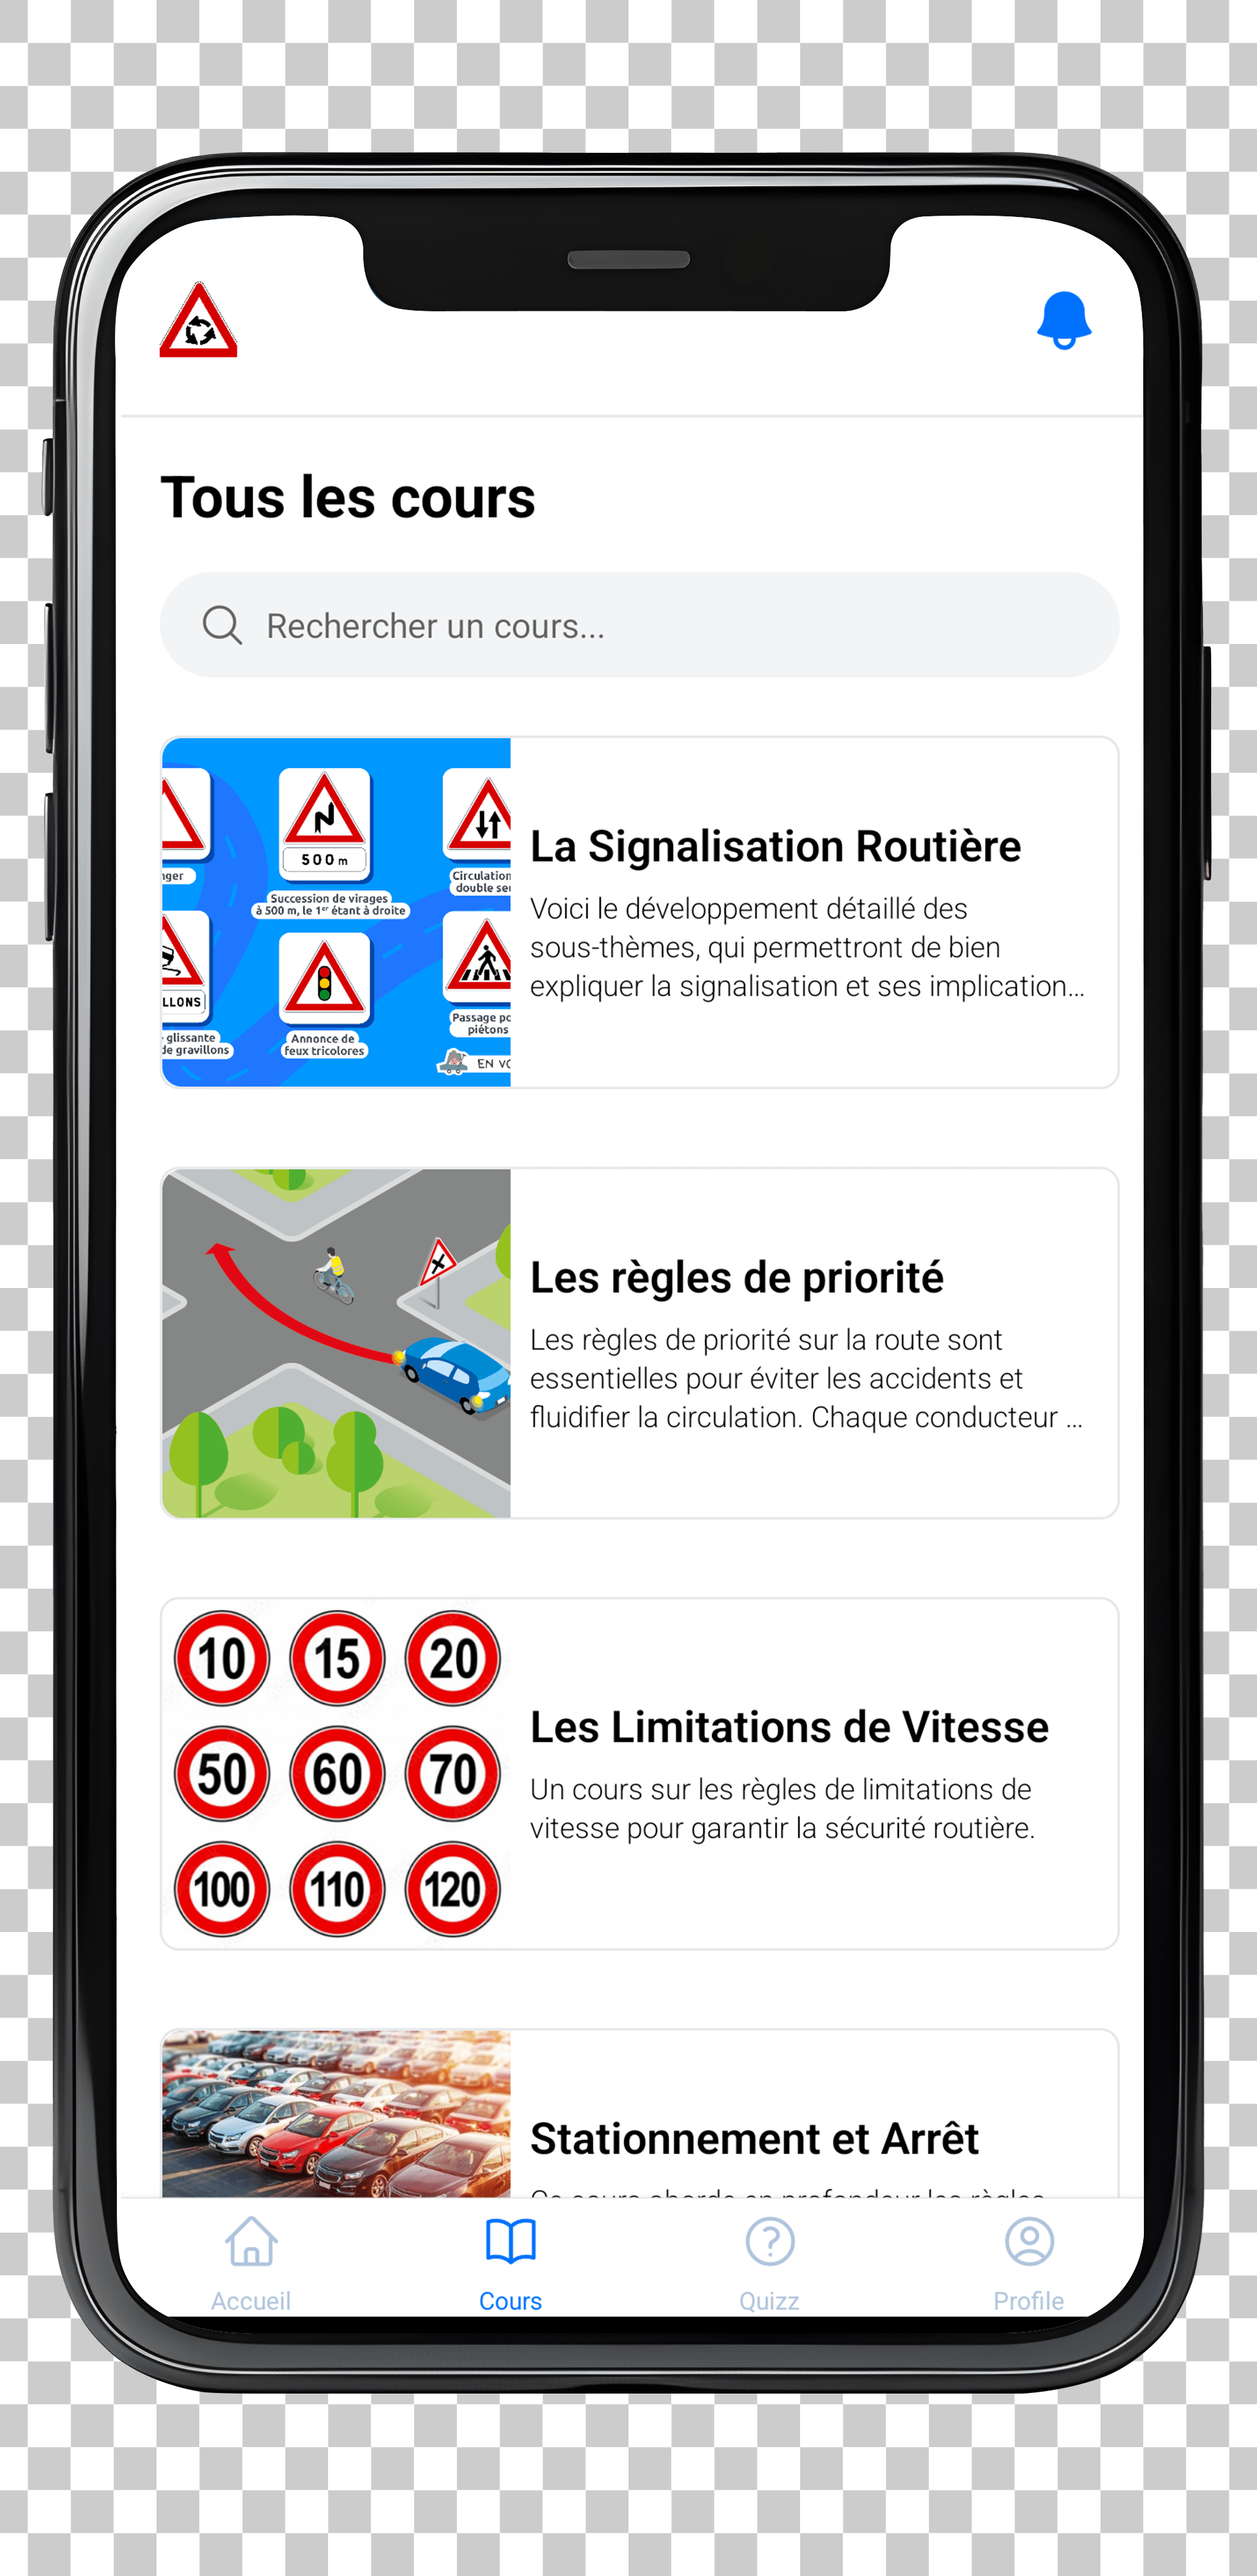
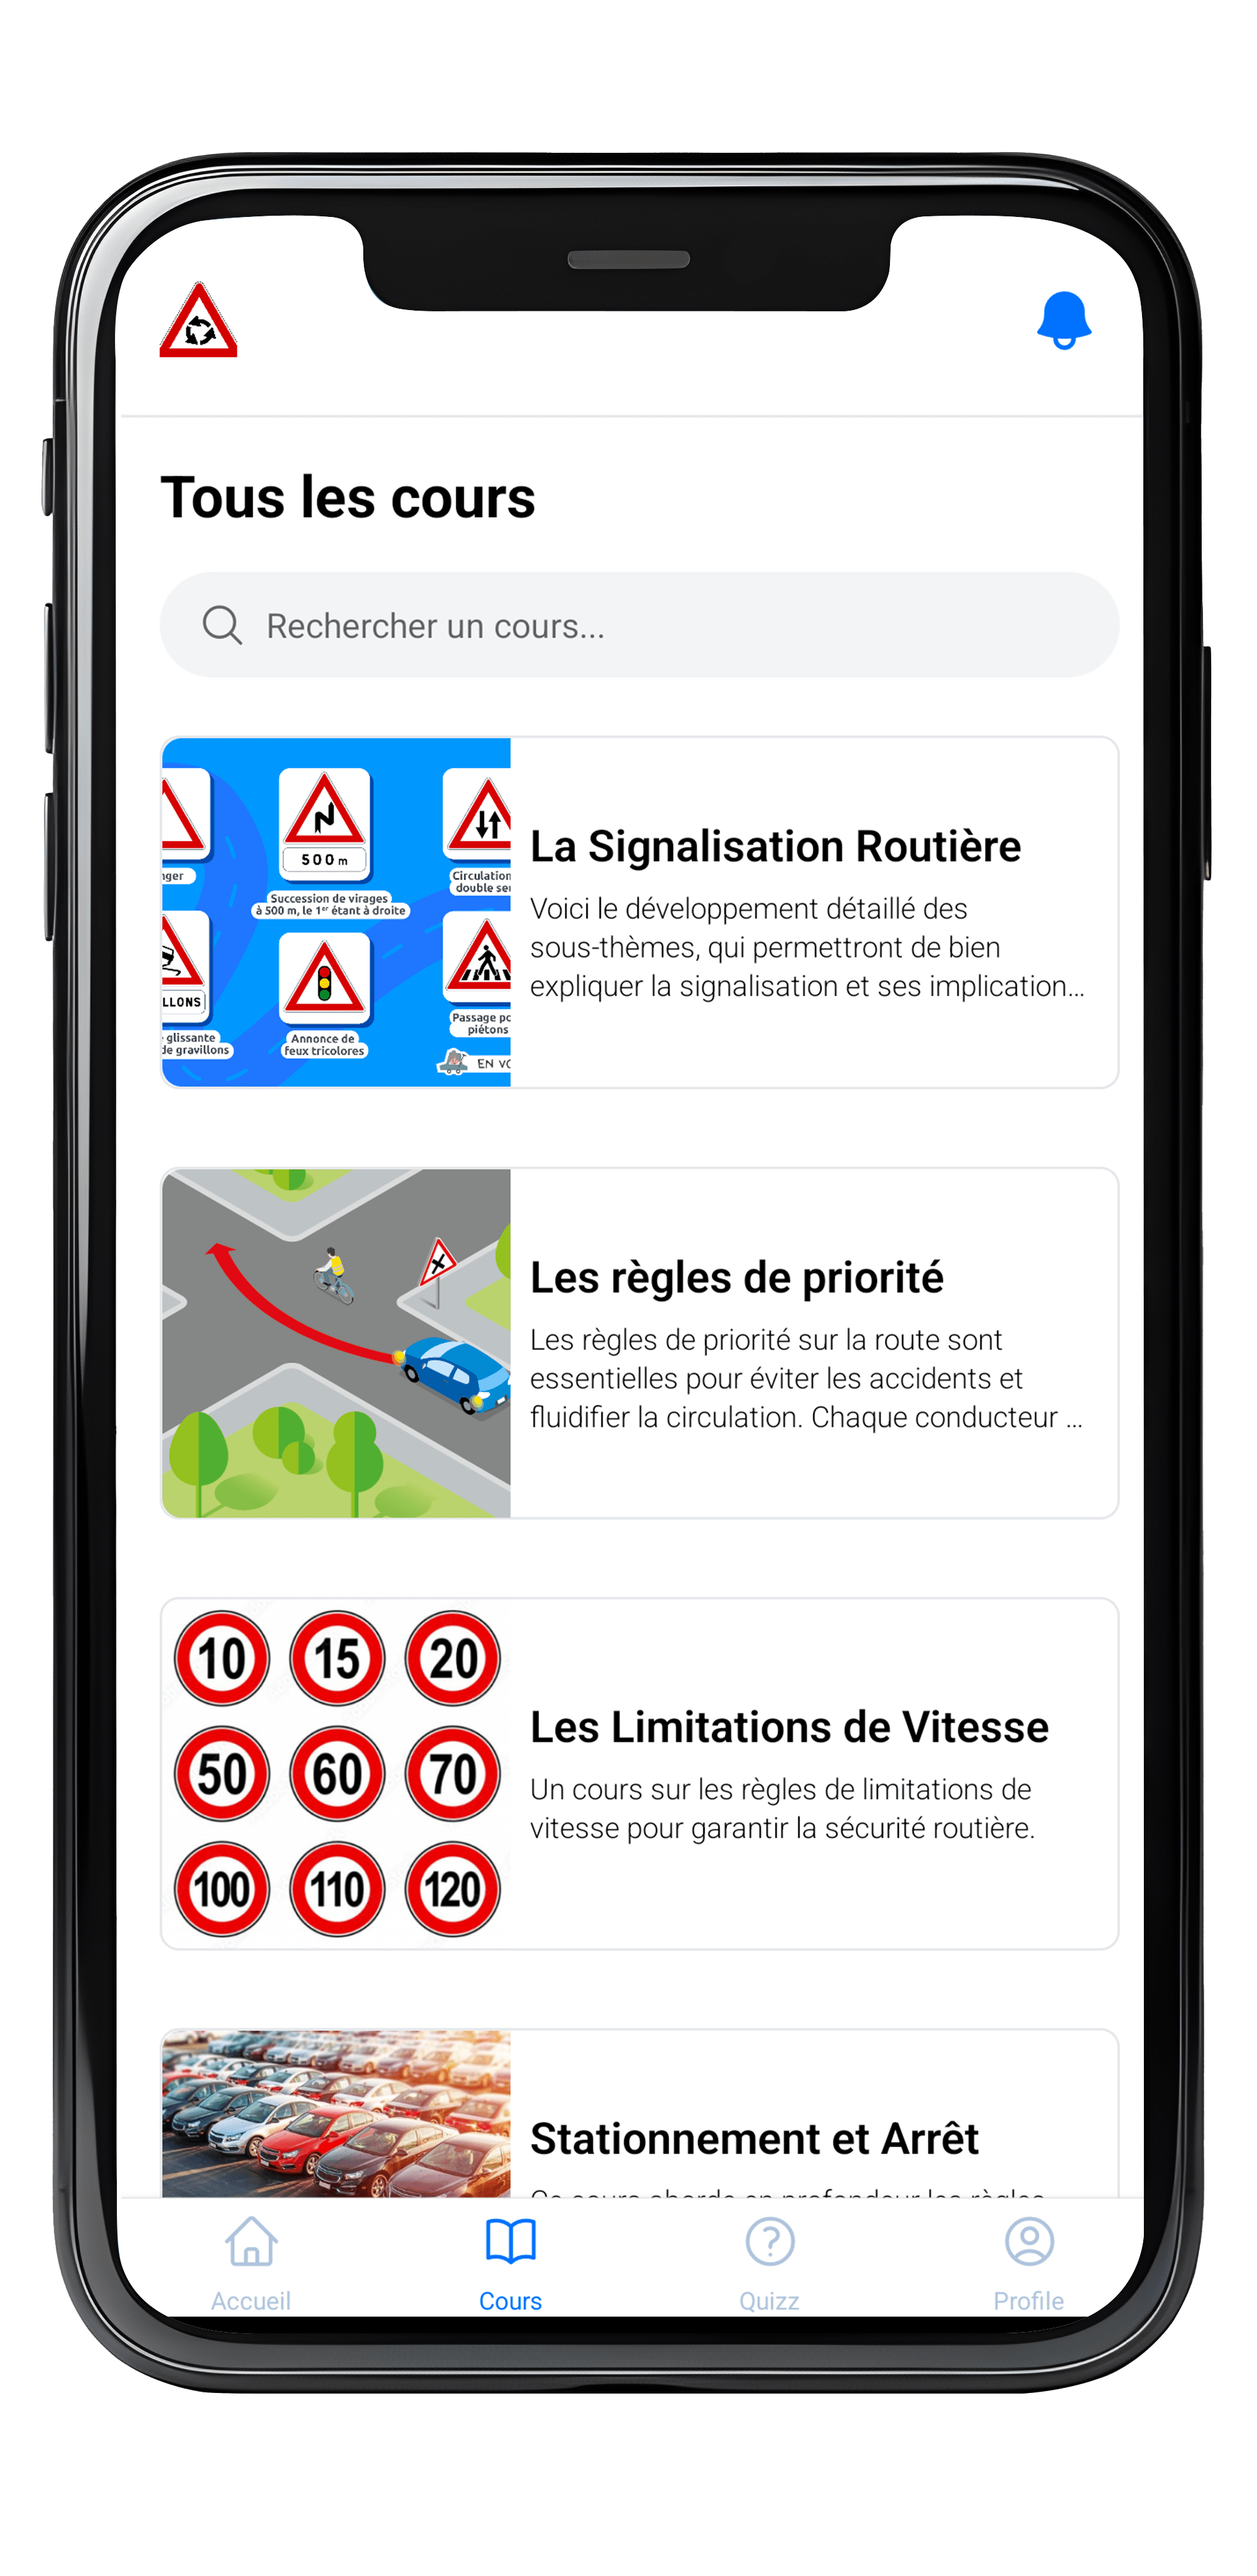
readme update 2

Changed region(s): [[0.0, 0.0, 1.0, 1.0]]

diff --git a/README.md b/README.md
@@ -13,17 +13,17 @@ This is a React Native Driving School app for learning traffic rules with intera
 ### Screenshots
 
 <div style="display: flex; flex-direction: 'row';">
-<img src="./screenshots/1.png" width=20%>
-<img src="./screenshots/2.png" width=20%>
-<img src="./screenshots/3.png" width=20%>
-<img src="./screenshots/4.png" width=20%>
-<img src="./screenshots/5.png" width=20%>
-<img src="./screenshots/6.png" width=20%>
-<img src="./screenshots/7.png" width=20%>
-<img src="./screenshots/8.png" width=20%>
-<img src="./screenshots/9.png" width=20%>
-<img src="./screenshots/10.png" width=20%>
-<img src="./screenshots/11.png" width=20%>
-<img src="./screenshots/12.png" width=20%>
+<img src="./screenshots/1.png" width=25%>
+<img src="./screenshots/2.png" width=25%>
+<img src="./screenshots/3.png" width=25%>
+<img src="./screenshots/4.png" width=25%>
+<img src="./screenshots/5.png" width=25%>
+<img src="./screenshots/6.png" width=25%>
+<img src="./screenshots/7.png" width=25%>
+<img src="./screenshots/8.png" width=25%>
+<img src="./screenshots/9.png" width=25%>
+<img src="./screenshots/10.png" width=25%>
+<img src="./screenshots/11.png" width=25%>
+<img src="./screenshots/12.png" width=25%>
 
 </div>
